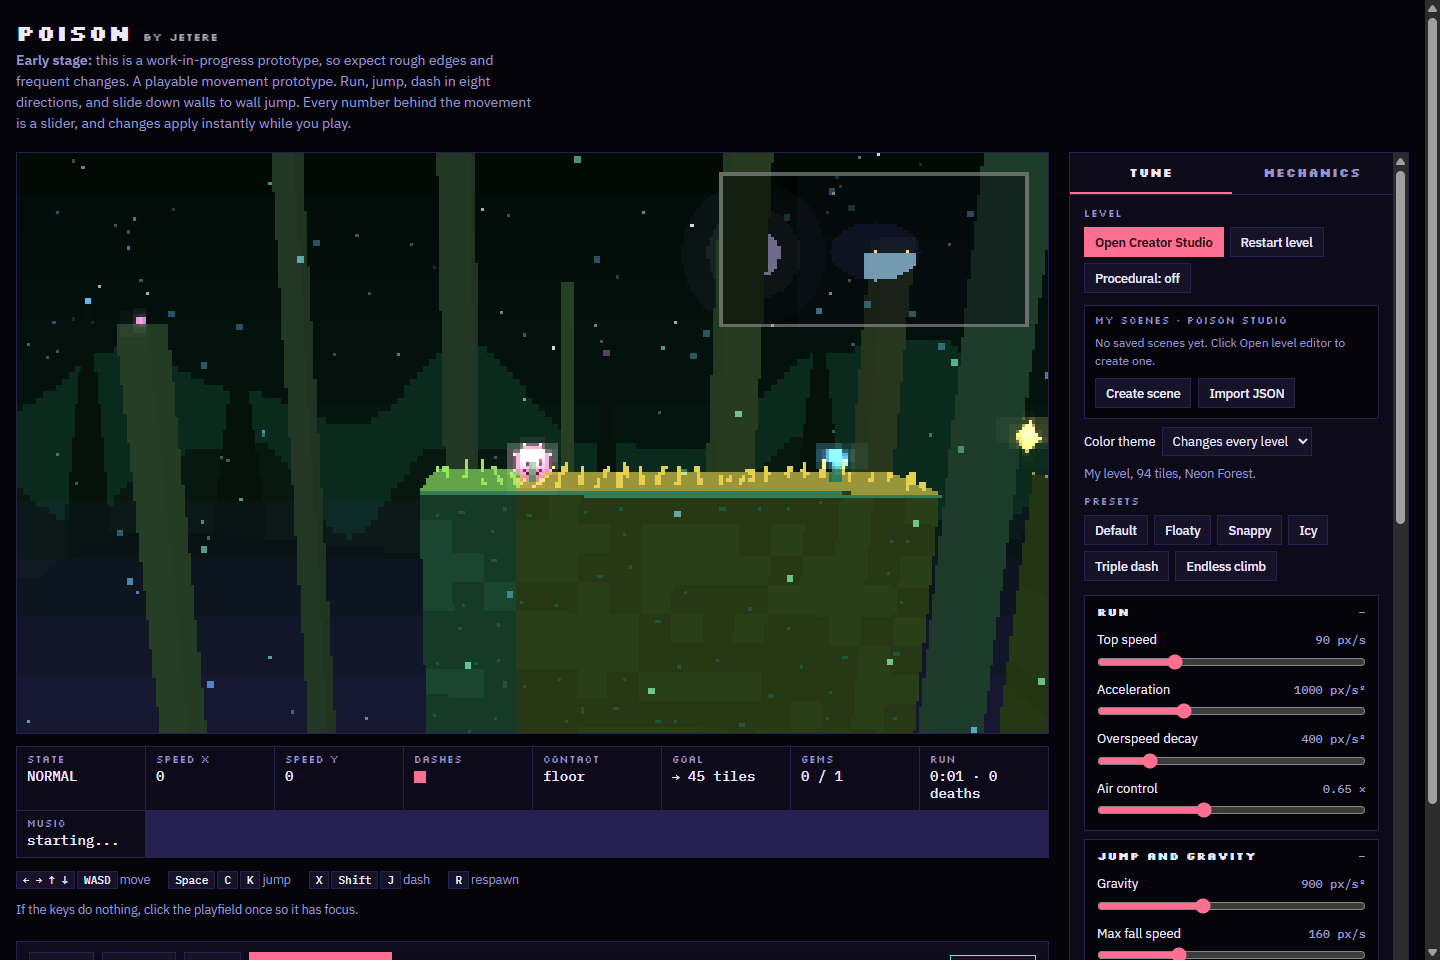
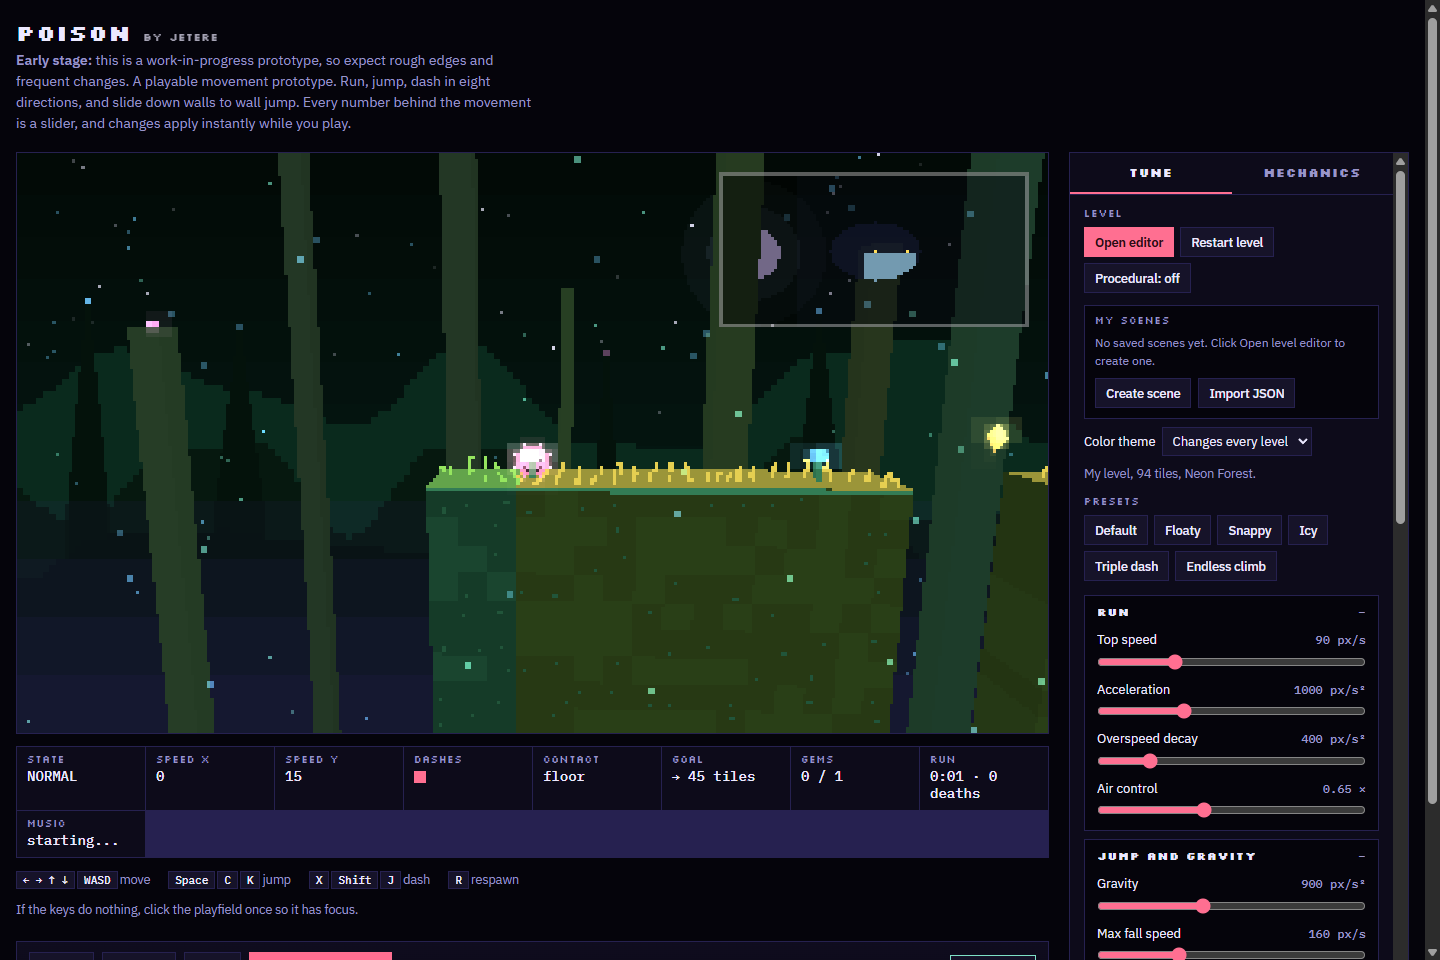
fix: use Poison branding throughout the app

diff --git a/src/game/parts/21-studio-library.js b/src/game/parts/21-studio-library.js
@@ -1,7 +1,7 @@
   /* ---------- integrated saved-scenes access in the main game ---------- */
   const sceneBox=document.createElement('div');
   sceneBox.style.cssText='margin-top:12px;background:var(--bg);border:1px solid var(--line);padding:10px';
-  sceneBox.innerHTML='<div class="sect-title">My scenes · Poison Studio</div><div id="poison-scene-library" style="max-height:225px;overflow:auto;color:var(--muted);font-size:12px"></div><div style="display:flex;gap:7px;flex-wrap:wrap;margin-top:8px"><button class="btn" id="poison-scene-new">Create scene</button><button class="btn" id="poison-scene-import">Import JSON</button></div>';
+  sceneBox.innerHTML='<div class="sect-title">My scenes</div><div id="poison-scene-library" style="max-height:225px;overflow:auto;color:var(--muted);font-size:12px"></div><div style="display:flex;gap:7px;flex-wrap:wrap;margin-top:8px"><button class="btn" id="poison-scene-new">Create scene</button><button class="btn" id="poison-scene-import">Import JSON</button></div>';
   $('b-apply').parentNode.after(sceneBox);
   sceneBox.querySelector('#poison-scene-new').onclick=()=>{openEditor();showNew();};
   sceneBox.querySelector('#poison-scene-import').onclick=()=>{importTarget='game';$e('#ps-file').click();};
@@ -17,7 +17,7 @@
   catch(e){paintDemo('starter');}
   resetHistory();
   customBuild=()=>{const L=build();L.name=name();return L;};
-  $('b-new').textContent='Open Creator Studio';
+  $('b-new').textContent='Open editor';
   $('b-new').onclick=()=>{if(window.poisonEditorOpen)closeEditor();else openEditor();$('b-new').blur();};
   refreshLibrary();renderAssets();updateToolButtons();updateHistoryButtons();
   window.poisonStudio={open:openEditor,close:closeEditor,serialize,deserialize,undo,redo,play:playScene,createCustom,enableScripts:()=>requestScriptPermission(),get state(){return{tiles:tiles.size,objects:objs.size,customObjects:[...objs.values()].filter(v=>v==='custom').length,prefabs:prefabs.size,selected:selection.size,history:history.length,name:name()};}};

diff --git a/src/game/parts/17-studio-editor.js b/src/game/parts/17-studio-editor.js
@@ -61,7 +61,7 @@
   let history=[], historyIndex=0, saveTimer=0, noticeTimer=0, miniBounds=null, importTarget='editor', openedOnce=false;
   const el = document.createElement('div'); el.id='poison-studio';
   el.innerHTML = `
-    <div class="ps-bar"><div class="ps-brandwrap"><div class="ps-brand">POISON<small>CREATOR STUDIO</small></div><div class="ps-pixelbits" aria-hidden="true"><i></i><i></i><i></i></div></div><span class="ps-divider"></span><span class="ps-floating-spark" aria-hidden="true"></span>
+    <div class="ps-bar"><div class="ps-brandwrap"><div class="ps-brand">POISON</div><div class="ps-pixelbits" aria-hidden="true"><i></i><i></i><i></i></div></div><span class="ps-divider"></span><span class="ps-floating-spark" aria-hidden="true"></span>
       <input id="ps-name" class="ps-name" aria-label="Scene name" maxlength="40" value="My level" title="Scene name">
       <button id="ps-new" title="Create a new scene">New ▾</button><button id="ps-save" title="Save to browser · Ctrl+S">Save</button>
       <select id="ps-library" aria-label="Saved scenes"></select><button id="ps-load" title="Open selected scene">Open</button>

diff --git a/index.html b/index.html
@@ -1,5 +1,5 @@
 <!doctype html><html><head><meta charset=utf8><meta name=viewport content="width=device-width,initial-scale=1,viewport-fit=cover"></head><body>
-<title>Poison — Creator Studio</title>
+<title>Poison</title>
 <meta name="description" content="Poison by Jetere: an early stage platformer prototype with tunable movement, procedural levels and a 3D pixel camera.">
 <meta name="claude:viewport-fit-sides" content="cover">
 <link rel="preconnect" href="https://fonts.googleapis.com">

diff --git a/README.md b/README.md
@@ -1,8 +1,8 @@
-# Poison and Poison Studio
+# Poison
 
 A pixel-art platformer and level editor by **Jetere**, built for Windows with Electron and Vite.
 
-Play levels, adjust movement settings, and build your own scenes in Poison Studio. The software is in active development, so features and visuals may change.
+Play levels, adjust movement settings, and build your own scenes in the level editor. The software is in active development, so features and visuals may change.
 
 ## Screenshots
 
@@ -10,9 +10,9 @@ Play levels, adjust movement settings, and build your own scenes in Poison Studi
 
 ![Poison gameplay with movement settings](docs/screenshots/game.png)
 
-### Poison Studio
+### Level editor
 
-![Poison Studio with level tools, object library, and inspector](docs/screenshots/studio.png)
+![the level editor with level tools, object library, and inspector](docs/screenshots/studio.png)
 
 ## Features
 
@@ -26,7 +26,7 @@ Play levels, adjust movement settings, and build your own scenes in Poison Studi
 - Save scenes locally or import and export them as JSON files.
 - Add custom object scripts with explicit permission before they run.
 
-The game and its audio stop while Poison Studio is open. Use **Play scene** to test your work.
+The game and its audio stop while the level editor is open. Use **Play scene** to test your work.
 
 ## Download and play
 
@@ -77,13 +77,13 @@ Click the game area to focus it before using the keyboard.
 | Dash | X, Shift, or J |
 | Respawn | R |
 
-Select **Open Poison Studio** to edit a level, then select **Play scene** to test it.
+Select **Open editor** to edit a level, then select **Play scene** to test it.
 
 ## Save and share scenes
 
 Use the desktop **File** menu to open or save a scene as a JSON file. **Save Scene As** lets you choose a new file name or location.
 
-Poison Studio also has a local scene library and JSON import/export buttons. Scene files preserve custom objects, prefabs, and custom theme data. Imported scripts stay disabled until you approve them in Studio.
+the level editor also has a local scene library and JSON import/export buttons. Scene files preserve custom objects, prefabs, and custom theme data. Imported scripts stay disabled until you approve them in Studio.
 
 ## Build Windows executables
 
